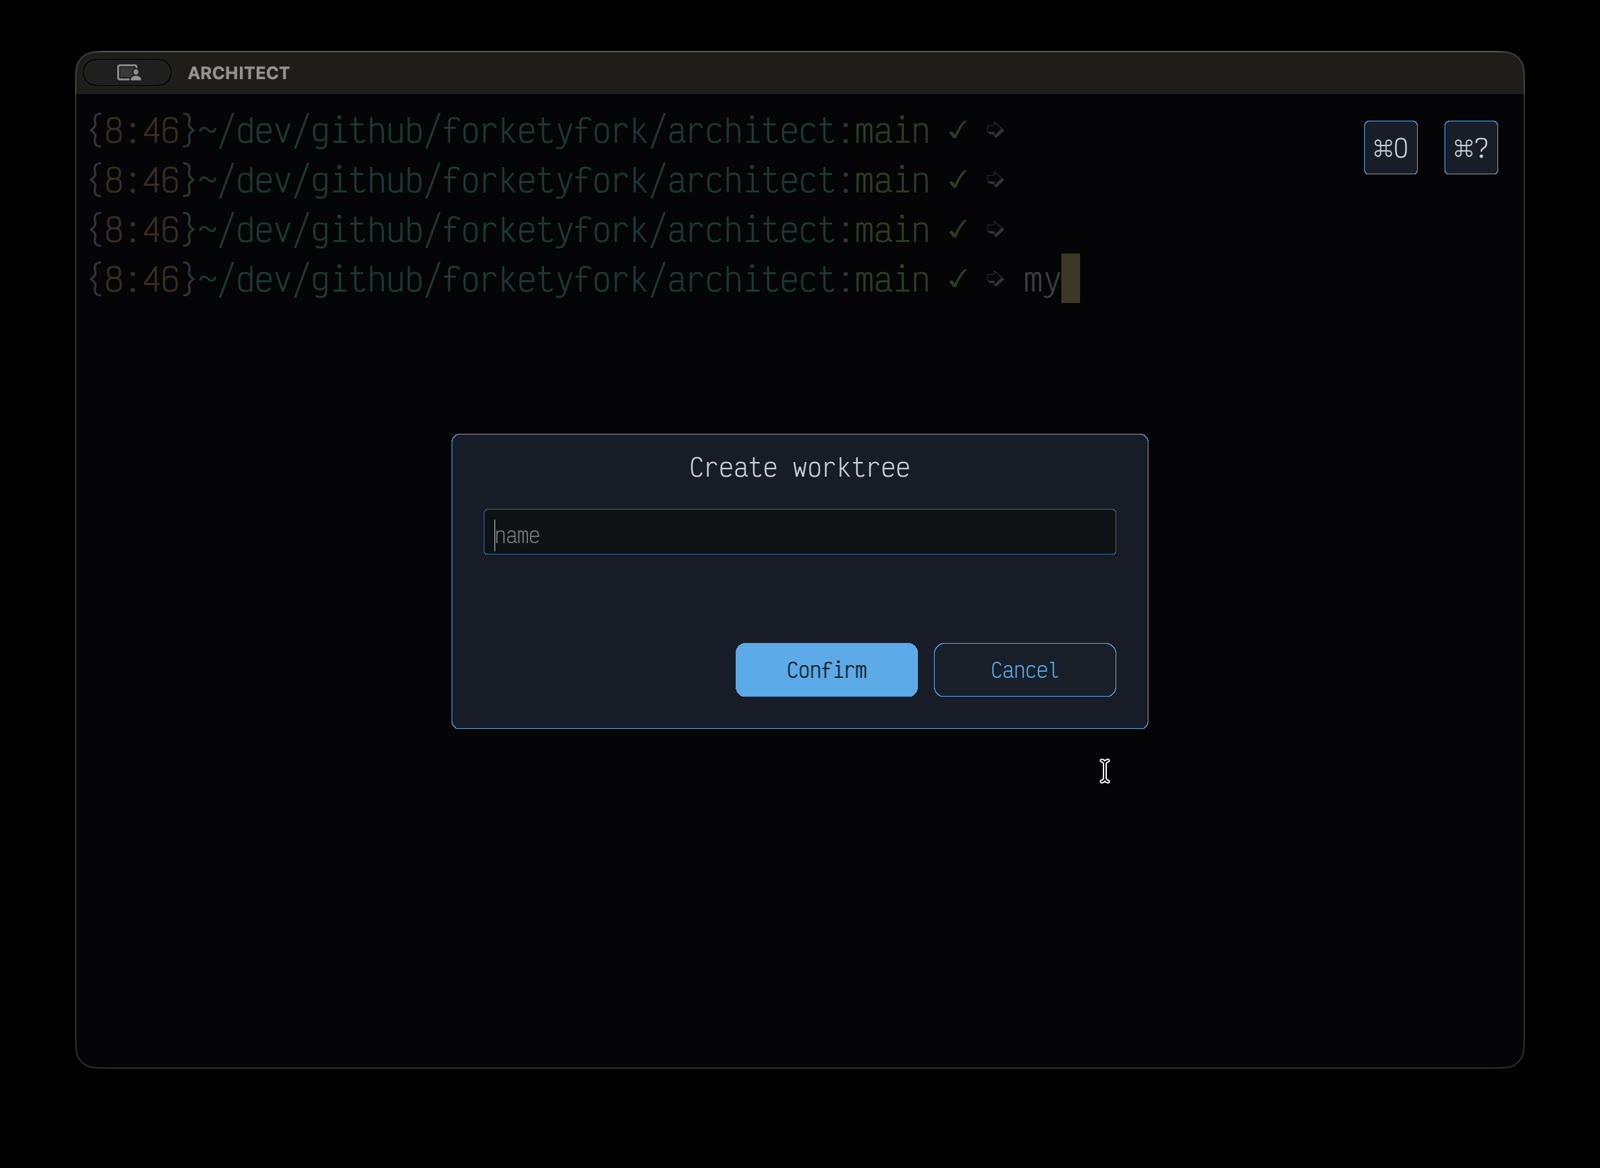
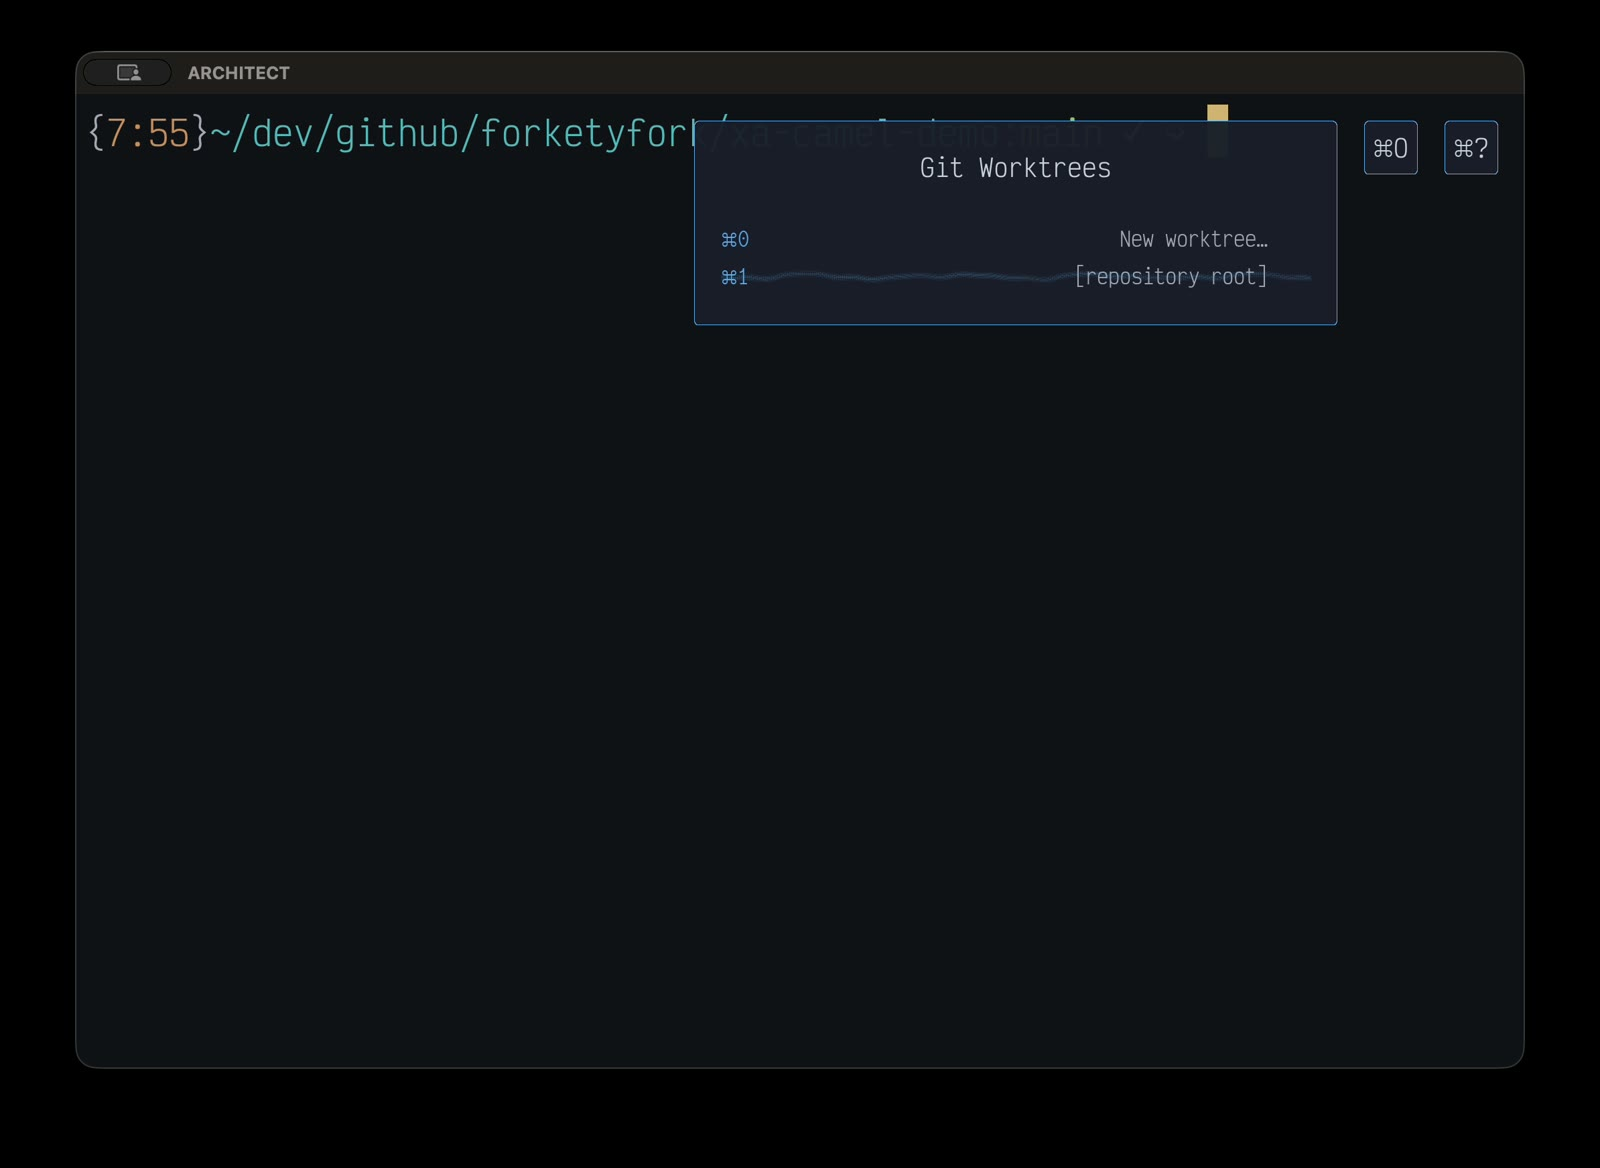
feat(architect): use real screenshots and demo videos throughout
Drop in the real hero screenshot and give every feature card its own screen
recording (status, grid, mcp, diff, recent) alongside the re-recorded
worktree clip. Each .mov was stripped of audio and re-encoded to a 1600px
H.264 mp4 with a poster frame.

Cards show the poster at rest and play the clip on hover; clicking opens it in
the looping lightbox. Replaces the solid-color placeholders.

diff --git a/jekyll/pages/architect.html b/jekyll/pages/architect.html
@@ -38,10 +38,16 @@ image: /img/architect/hero.png
 
     <section class="arch-section">
         <h2 class="section-title">What it does</h2>
+        <p style="text-align:center;">Point at any clip to play it, click to watch it full size.</p>
         <div class="arch-features">
 
             <article class="arch-feature-card">
-                <img class="arch-feature-shot" src="{{ '/img/architect/status.png' | relative_url }}" alt="A terminal cell tinted and glowing to signal its agent needs attention">
+                <button type="button" class="arch-feature-media" data-lightbox-src="{{ '/img/architect/status.mp4' | relative_url }}" aria-label="Play the status highlights demo full size">
+                    <video class="arch-feature-shot" poster="{{ '/img/architect/status.jpg' | relative_url }}" loop muted playsinline preload="metadata">
+                        <source src="{{ '/img/architect/status.mp4' | relative_url }}" type="video/mp4">
+                    </video>
+                    <span class="arch-media-badge" aria-hidden="true">&#9654;</span>
+                </button>
                 <div class="arch-feature-body">
                     <h3>Status highlights</h3>
                     <p>Every terminal watches its agent. When the agent finishes, or stops to ask for approval, the cell shifts its tint and animates. You can tell from across the grid which one needs you. It runs off agent hooks, not one hardcoded CLI.</p>
@@ -49,7 +55,12 @@ image: /img/architect/hero.png
             </article>
 
             <article class="arch-feature-card">
-                <img class="arch-feature-shot" src="{{ '/img/architect/grid.png' | relative_url }}" alt="Architect's grid of terminals reflowing as cells are added">
+                <button type="button" class="arch-feature-media" data-lightbox-src="{{ '/img/architect/grid.mp4' | relative_url }}" aria-label="Play the grid demo full size">
+                    <video class="arch-feature-shot" poster="{{ '/img/architect/grid.jpg' | relative_url }}" loop muted playsinline preload="metadata">
+                        <source src="{{ '/img/architect/grid.mp4' | relative_url }}" type="video/mp4">
+                    </video>
+                    <span class="arch-media-badge" aria-hidden="true">&#9654;</span>
+                </button>
                 <div class="arch-feature-body">
                     <h3>A grid of terminals</h3>
                     <p>One terminal to start. &#8984;N adds another and the grid reflows; &#8984;W closes one and the rest compact forward. &#8984;Enter blows a cell up to full screen, &#8984;Arrow moves focus, &#8984;1&#8211;&#8984;0 jump straight to a slot. It's all keyboard.</p>
@@ -57,7 +68,12 @@ image: /img/architect/hero.png
             </article>
 
             <article class="arch-feature-card">
-                <img class="arch-feature-shot" src="{{ '/img/architect/mcp.png' | relative_url }}" alt="A terminal cell spawned in Architect by an MCP-aware app">
+                <button type="button" class="arch-feature-media" data-lightbox-src="{{ '/img/architect/mcp.mp4' | relative_url }}" aria-label="Play the MCP support demo full size">
+                    <video class="arch-feature-shot" poster="{{ '/img/architect/mcp.jpg' | relative_url }}" loop muted playsinline preload="metadata">
+                        <source src="{{ '/img/architect/mcp.mp4' | relative_url }}" type="video/mp4">
+                    </video>
+                    <span class="arch-media-badge" aria-hidden="true">&#9654;</span>
+                </button>
                 <div class="arch-feature-body">
                     <h3>MCP support</h3>
                     <p>Architect runs its own MCP server. An MCP-aware app can ask it to open a terminal in any directory, so a tool can hand a task to a new worktree and get its own agent cell, no manual setup on your end.</p>
@@ -65,7 +81,12 @@ image: /img/architect/hero.png
             </article>
 
             <article class="arch-feature-card">
-                <img class="arch-feature-shot" src="{{ '/img/architect/diff.png' | relative_url }}" alt="Architect's repo-wide git diff overlay with inline review comments">
+                <button type="button" class="arch-feature-media" data-lightbox-src="{{ '/img/architect/diff.mp4' | relative_url }}" aria-label="Play the diff overlay demo full size">
+                    <video class="arch-feature-shot" poster="{{ '/img/architect/diff.jpg' | relative_url }}" loop muted playsinline preload="metadata">
+                        <source src="{{ '/img/architect/diff.mp4' | relative_url }}" type="video/mp4">
+                    </video>
+                    <span class="arch-media-badge" aria-hidden="true">&#9654;</span>
+                </button>
                 <div class="arch-feature-body">
                     <h3>Diff in a keystroke</h3>
                     <p>&#8984;D shows a repo-wide git diff: staged, unstaged, untracked. Click a line to leave a comment, then send the batch to the agent to act on.</p>
@@ -73,7 +94,12 @@ image: /img/architect/hero.png
             </article>
 
             <article class="arch-feature-card">
-                <img class="arch-feature-shot" src="{{ '/img/architect/recent.png' | relative_url }}" alt="Architect's recent folders quick-switch popup with search">
+                <button type="button" class="arch-feature-media" data-lightbox-src="{{ '/img/architect/recent.mp4' | relative_url }}" aria-label="Play the recent folders demo full size">
+                    <video class="arch-feature-shot" poster="{{ '/img/architect/recent.jpg' | relative_url }}" loop muted playsinline preload="metadata">
+                        <source src="{{ '/img/architect/recent.mp4' | relative_url }}" type="video/mp4">
+                    </video>
+                    <span class="arch-media-badge" aria-hidden="true">&#9654;</span>
+                </button>
                 <div class="arch-feature-body">
                     <h3>Recent folders</h3>
                     <p>&#8984;O brings up the directories you've been in lately. Start typing to filter, arrows to move, &#8984;1&#8211;&#8984;9 to jump. Matches get highlighted as you type.</p>
@@ -82,14 +108,14 @@ image: /img/architect/hero.png
 
             <article class="arch-feature-card">
                 <button type="button" class="arch-feature-media" data-lightbox-src="{{ '/img/architect/worktrees.mp4' | relative_url }}" aria-label="Play the worktree picker demo full size">
-                    <video class="arch-feature-shot" poster="{{ '/img/architect/worktrees.jpg' | relative_url }}" autoplay loop muted playsinline preload="metadata">
+                    <video class="arch-feature-shot" poster="{{ '/img/architect/worktrees.jpg' | relative_url }}" loop muted playsinline preload="metadata">
                         <source src="{{ '/img/architect/worktrees.mp4' | relative_url }}" type="video/mp4">
                     </video>
                     <span class="arch-media-badge" aria-hidden="true">&#9654;</span>
                 </button>
                 <div class="arch-feature-body">
                     <h3>Worktree picker</h3>
-                    <p>&#8984;T drops you into a git worktree on another branch, or makes a new one. Under the hood it's just git commands sent to the shell, so you can see exactly what it did. Click to watch it full size.</p>
+                    <p>&#8984;T drops you into a git worktree on another branch, or makes a new one. Under the hood it's just git commands sent to the shell, so you can see exactly what it did.</p>
                 </div>
             </article>
 

diff --git a/js/app.js b/js/app.js
@@ -36,7 +36,7 @@ document.addEventListener('DOMContentLoaded', function () {
     overlay.innerHTML =
         '<div class="lightbox-content">' +
             '<button type="button" class="lightbox-close" aria-label="Close video">×</button>' +
-            '<video class="lightbox-video" controls playsinline></video>' +
+            '<video class="lightbox-video" controls loop playsinline></video>' +
         '</div>';
     document.body.appendChild(overlay);
 
@@ -66,6 +66,19 @@ document.addEventListener('DOMContentLoaded', function () {
         trigger.addEventListener('click', function () {
             openLightbox(trigger.getAttribute('data-lightbox-src'));
         });
+
+        // Play the inline preview on hover, reset when the pointer leaves
+        const preview = trigger.querySelector('video');
+        if (preview) {
+            trigger.addEventListener('mouseenter', function () {
+                const playback = preview.play();
+                if (playback && playback.catch) playback.catch(function () {});
+            });
+            trigger.addEventListener('mouseleave', function () {
+                preview.pause();
+                preview.currentTime = 0;
+            });
+        }
     });
 
     overlay.addEventListener('click', function (e) {